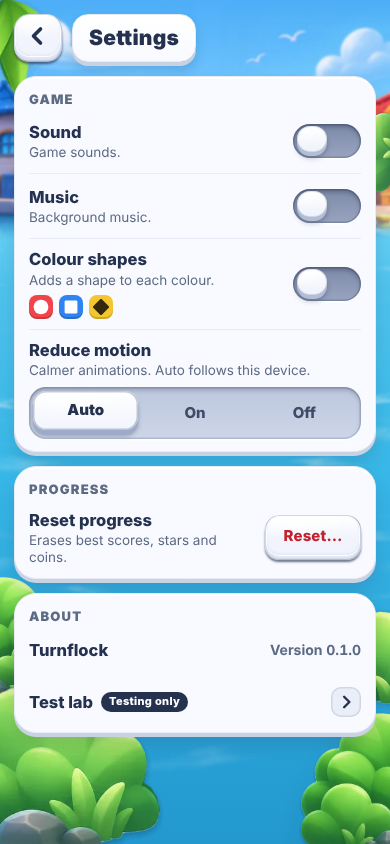
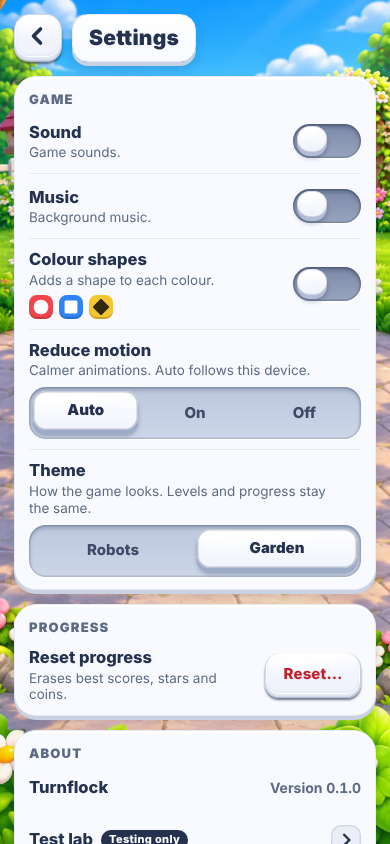
feat: the garden is the main theme, robot stays one tap away
Owner, 2026-11-24 (via the overall session). Every build opens a new
player in the garden; build:single:garden stays as a name for the same
game. Save version 9 keeps whether the player picked a theme: a picked
theme is kept, an unpicked one follows the default. Version 8 did not keep
that and robot was the default then, so every older save opens in the
garden (progress kept). Settings list Garden first. Browser test for the
switch and the old-save case rewritten for the new default.
Evidence: production/qa/evidence/garden-theme/main-*.

Design: design/themes.md

Claude-Session: https://claude.ai/code/session_01PBSmYtBD6kmydKTzDVzXTr

diff --git a/tests/integration/theme.spec.ts b/tests/integration/theme.spec.ts
@@ -1,5 +1,5 @@
-// The theme setting (design/themes.md): switching in the settings changes the page and the
-// board without a reload, is kept, and the garden build opens in the garden theme.
+// The theme setting (design/themes.md): the garden is the main theme; switching in the settings
+// changes the page and the board without a reload, and a picked theme is kept.
 import { expect, test, type Page } from '@playwright/test';
 import { existsSync } from 'node:fs';
 import { resolve } from 'node:path';
@@ -20,32 +20,43 @@ async function open(page: Page, url: string): Promise<string[]> {
 }
 const theme = (page: Page) => page.evaluate(() => window.turnflock.snapshot().theme);
 
-test('theme: robot by default; Garden in the settings switches page and board at once, and is kept @boot', async ({ page }) => {
+test('theme: a fresh start opens in the garden; Robots in the settings switches page and board at once, and is kept @boot', async ({ page }) => {
   const errors = await open(page, build);
-  expect(await theme(page)).toEqual({ setting: 'robot', page: 'robot' });
+  expect(await theme(page)).toEqual({ setting: 'garden', page: 'garden' });
+  expect(await page.evaluate(() => getComputedStyle(document.documentElement).getPropertyValue('--tf-theme-sky').trim())).not.toBe('');
   // Into level 1 and back, so a board is built before the switch.
   await page.click('#continue');
   await expect.poll(async () => (await page.evaluate(() => window.turnflock.snapshot().screen))).toBe('level');
   await page.click('#levelBack');
   await page.click('#toSettings');
   const row = page.locator('#settings [data-key="theme"]');
-  await expect(row.getByRole('radio', { name: 'Robots' })).toHaveAttribute('aria-checked', 'true');
-  await row.getByRole('radio', { name: 'Garden' }).click();
-  expect(await theme(page)).toEqual({ setting: 'garden', page: 'garden' });
-  expect(await page.evaluate(() => getComputedStyle(document.documentElement).getPropertyValue('--tf-theme-sky').trim())).not.toBe('');
-  expect(await page.evaluate(() => JSON.parse(localStorage.getItem('turnflock.save')!).settings.theme)).toBe('garden');
-  await page.reload();
-  await expect.poll(() => page.evaluate(() => typeof window.turnflock?.snapshot)).toBe('function');
-  expect(await theme(page)).toEqual({ setting: 'garden', page: 'garden' });
-  // Back to robots: the garden colours are gone again.
-  await page.click('#toSettings');
-  await page.locator('#settings [data-key="theme"]').getByRole('radio', { name: 'Robots' }).click();
+  await expect(row.getByRole('radio', { name: 'Garden' })).toHaveAttribute('aria-checked', 'true');
+  await row.getByRole('radio', { name: 'Robots' }).click();
   expect(await theme(page)).toEqual({ setting: 'robot', page: 'robot' });
   expect(await page.evaluate(() => getComputedStyle(document.documentElement).getPropertyValue('--tf-theme-sky').trim())).toBe('');
+  expect(await page.evaluate(() => JSON.parse(localStorage.getItem('turnflock.save')!).settings)).toMatchObject({ theme: 'robot', themeChosen: true });
+  // A picked robot theme survives a reload.
+  await page.reload();
+  await expect.poll(() => page.evaluate(() => typeof window.turnflock?.snapshot)).toBe('function');
+  expect(await theme(page)).toEqual({ setting: 'robot', page: 'robot' });
+  // Back to the garden.
+  await page.click('#toSettings');
+  await page.locator('#settings [data-key="theme"]').getByRole('radio', { name: 'Garden' }).click();
+  expect(await theme(page)).toEqual({ setting: 'garden', page: 'garden' });
   expect(errors).toEqual([]);
 });
 
-test('theme: the garden build opens a new player in the garden, and a level plays there', async ({ page }) => {
+test('theme: a save from before the garden became the main theme opens in the garden, progress kept', async ({ page }) => {
+  await page.addInitScript(() => {
+    if (!localStorage.getItem('turnflock.save')) localStorage.setItem('turnflock.save', JSON.stringify({ version: 8, best: { 'first-steps': 3 }, coins: 73, paid: {}, settings: { theme: 'robot' }, lab: {} }));
+  });
+  const errors = await open(page, build);
+  expect(await theme(page)).toEqual({ setting: 'garden', page: 'garden' });
+  expect(await page.evaluate(() => window.turnflock.snapshot().coins)).toBe(73);
+  expect(errors).toEqual([]);
+});
+
+test('theme: the garden build (build:single:garden) is the same game, and a level plays there', async ({ page }) => {
   test.skip(!existsSync(gardenFile), 'run npm run build:single:garden first');
   const errors = await open(page, pathToFileURL(gardenFile).href);
   expect(await theme(page)).toEqual({ setting: 'garden', page: 'garden' });

diff --git a/src/game/save.ts b/src/game/save.ts
@@ -9,7 +9,7 @@ import { isSoundSet } from '../sound/sets';
 import { DEFAULT_THEME, isThemeId, type ThemeId } from './theme';
 
 /** Current save format. Raise it and extend `migrate` when the shape changes. */
-export const SAVE_VERSION = 8;
+export const SAVE_VERSION = 9;
 /**
  * Which amounts the `paid` map is in. 1: base, spare moves and perfect bonus (until 2026-11-22). 2: the reward
  * follows the stars (design/economy.md). Kept apart from `SAVE_VERSION` because the save's shape does not change.
@@ -42,6 +42,8 @@ export interface SaveData {
     colourShapes: boolean;
     /** The look the game is played in (design/themes.md). Only the look: levels and progress are shared. */
     theme: ThemeId;
+    /** True once the player picked a theme in the settings; until then the theme follows the game's default. */
+    themeChosen: boolean;
   };
   lab: LabSettings;
   /** The test ledger: pretend purchases, rewards and spends, with running totals. */
@@ -57,7 +59,7 @@ export interface KeyValueStore {
 
 /** A fresh save. */
 export function defaultSave(): SaveData {
-  return { version: SAVE_VERSION, best: {}, coins: CONFIG.coins.start, paid: {}, economy: ECONOMY_VERSION, settings: { mute: false, music: true, reduceMotion: null, colourShapes: false, theme: DEFAULT_THEME }, lab: { ...DEFAULT_LAB }, ledger: emptyLedger() };
+  return { version: SAVE_VERSION, best: {}, coins: CONFIG.coins.start, paid: {}, economy: ECONOMY_VERSION, settings: { mute: false, music: true, reduceMotion: null, colourShapes: false, theme: DEFAULT_THEME, themeChosen: false }, lab: { ...DEFAULT_LAB }, ledger: emptyLedger() };
 }
 
 const isRecord = (v: unknown): v is Record<string, unknown> => typeof v === 'object' && v !== null && !Array.isArray(v);
@@ -84,8 +86,10 @@ export function migrate(raw: unknown, levelIds: readonly string[]): SaveData {
   // Version 4 had no colour shapes: everything is kept and the shapes start switched off.
   // Version 5 had no test shop and no ledger: everything is kept, the ledger starts empty and the shop switches take their defaults.
   // Version 6 had no music: everything is kept and the music starts switched on, like for a new player.
-  // Version 7 had no theme: everything is kept and the theme is the build's default, like for a new player.
-  const withCoins = raw.version === SAVE_VERSION || raw.version === 7 || raw.version === 6 || raw.version === 5 || raw.version === 4 || raw.version === 3;
+  // Version 7 had no theme: everything is kept and the theme is the default, like for a new player.
+  // Version 8 kept a theme but not whether the player picked it: robot was the default then, so a stored
+  // robot cannot be told from a chosen one. Every version 8 save goes to the default (the garden).
+  const withCoins = raw.version === SAVE_VERSION || raw.version === 8 || raw.version === 7 || raw.version === 6 || raw.version === 5 || raw.version === 4 || raw.version === 3;
   if (!withCoins && raw.version !== 2) return save;
   if (isRecord(raw.best)) {
     for (const [id, moves] of Object.entries(raw.best)) {
@@ -107,8 +111,12 @@ export function migrate(raw: unknown, levelIds: readonly string[]): SaveData {
     save.settings.music = raw.settings.music !== false;
     save.settings.reduceMotion = typeof raw.settings.reduceMotion === 'boolean' ? raw.settings.reduceMotion : null;
     save.settings.colourShapes = raw.settings.colourShapes === true;
-    // A theme that no longer exists (or damaged data) gives the build's default.
-    if (isThemeId(raw.settings.theme)) save.settings.theme = raw.settings.theme;
+    // Only a theme the player picked is kept; otherwise (not picked, an older save, a theme that no
+    // longer exists, damaged data) the theme is the default.
+    if (raw.version === SAVE_VERSION && raw.settings.themeChosen === true && isThemeId(raw.settings.theme)) {
+      save.settings.theme = raw.settings.theme;
+      save.settings.themeChosen = true;
+    }
   }
   if (isRecord(raw.lab)) {
     const lab = raw.lab;

diff --git a/tests/unit/theme.test.ts b/tests/unit/theme.test.ts
@@ -24,12 +24,12 @@ const partial: ThemeSources = {
 };
 
 describe('theme ids', () => {
-  it('knows robot and garden, and the tests run the robot build', () => {
-    expect(THEME_IDS).toEqual(['robot', 'garden']);
+  it('knows robot and garden, and the garden is the main theme', () => {
+    expect(THEME_IDS).toEqual(['garden', 'robot']);
     expect(isThemeId('garden')).toBe(true);
     expect(isThemeId('space')).toBe(false);
     expect(isThemeId(undefined)).toBe(false);
-    expect(DEFAULT_THEME).toBe('robot');
+    expect(DEFAULT_THEME).toBe('garden');
   });
 });
 
@@ -146,32 +146,43 @@ describe('effects and hint during play', () => {
 });
 
 describe('theme in the save', () => {
-  it('a fresh save starts in the build default', () => {
-    expect(SAVE_VERSION).toBe(8);
-    expect(defaultSave().settings.theme).toBe(DEFAULT_THEME);
+  it('a fresh save starts in the garden, not picked by the player', () => {
+    expect(SAVE_VERSION).toBe(9);
+    expect(defaultSave().settings.theme).toBe('garden');
+    expect(defaultSave().settings.themeChosen).toBe(false);
   });
 
-  it('a version 7 save keeps everything and gets the default theme', () => {
+  it('a version 7 save keeps everything and gets the garden', () => {
     const save = migrate({ version: 7, best: { [ids[0]]: 7 }, coins: 73, paid: { [ids[0]]: 26 }, economy: 2, settings: { mute: true, music: false, reduceMotion: true, colourShapes: true }, lab: { unlockAll: true } }, ids);
     expect(save.version).toBe(SAVE_VERSION);
     expect(save.best).toEqual({ [ids[0]]: 7 });
     expect(save.coins).toBe(73);
     expect(save.paid).toEqual({ [ids[0]]: 26 });
-    expect(save.settings).toEqual({ mute: true, music: false, reduceMotion: true, colourShapes: true, theme: 'robot' });
+    expect(save.settings).toEqual({ mute: true, music: false, reduceMotion: true, colourShapes: true, theme: 'garden', themeChosen: false });
     expect(save.lab.unlockAll).toBe(true);
   });
 
-  it('a chosen theme is kept; an unknown or damaged one gives the default', () => {
+  it('a version 8 save goes to the garden, robot included: whether robot was picked was not kept', () => {
+    const robot = migrate({ version: 8, best: { [ids[0]]: 7 }, coins: 73, settings: { theme: 'robot', mute: true }, lab: {} }, ids);
+    expect(robot.settings).toMatchObject({ theme: 'garden', themeChosen: false, mute: true });
+    expect(robot.best).toEqual({ [ids[0]]: 7 });
+    expect(robot.coins).toBe(73);
     expect(migrate({ version: 8, settings: { theme: 'garden' } }, ids).settings.theme).toBe('garden');
-    expect(migrate({ version: 8, settings: { theme: 'space' } }, ids).settings.theme).toBe('robot');
-    expect(migrate({ version: 8, settings: { theme: 3 } }, ids).settings.theme).toBe('robot');
   });
 
-  it('survives a write and a read', () => {
+  it('from version 9 a picked theme is kept, robot too; an unpicked one follows the default', () => {
+    expect(migrate({ version: 9, settings: { theme: 'robot', themeChosen: true } }, ids).settings).toMatchObject({ theme: 'robot', themeChosen: true });
+    expect(migrate({ version: 9, settings: { theme: 'robot', themeChosen: false } }, ids).settings).toMatchObject({ theme: 'garden', themeChosen: false });
+    expect(migrate({ version: 9, settings: { theme: 'space', themeChosen: true } }, ids).settings).toMatchObject({ theme: 'garden', themeChosen: false });
+    expect(migrate({ version: 9, settings: { theme: 3, themeChosen: true } }, ids).settings.theme).toBe('garden');
+  });
+
+  it('a picked robot theme survives a write and a read', () => {
     const store = memory();
     const save = defaultSave();
-    save.settings.theme = 'garden';
+    save.settings.theme = 'robot';
+    save.settings.themeChosen = true;
     writeSave(store, save);
-    expect(loadSave(store, ids).settings.theme).toBe('garden');
+    expect(loadSave(store, ids).settings).toMatchObject({ theme: 'robot', themeChosen: true });
   });
 });

diff --git a/tests/unit/meta.test.ts b/tests/unit/meta.test.ts
@@ -152,7 +152,7 @@ describe('save', () => {
     expect(save.best).toEqual({ [ids[0]]: 7 });
     expect(save.coins).toBe(73);
     expect(save.paid).toEqual({ [ids[0]]: 26 });
-    expect(save.settings).toEqual({ mute: true, music: true, reduceMotion: true, colourShapes: false, theme: 'robot' });
+    expect(save.settings).toEqual({ mute: true, music: true, reduceMotion: true, colourShapes: false, theme: 'garden', themeChosen: false });
     expect(save.lab.moveSlack).toBe(3);
     expect(save.lab.unlockAll).toBe(true);
   });
@@ -176,7 +176,7 @@ describe('save', () => {
     const save = migrate({ version: 4, best: { [ids[0]]: 7 }, coins: 73, settings: { mute: true, reduceMotion: false, vibration: false }, lab: { unlockAll: true } }, ids);
     expect(save.best).toEqual({ [ids[0]]: 7 });
     expect(save.coins).toBe(73);
-    expect(save.settings).toEqual({ mute: true, music: true, reduceMotion: false, colourShapes: false, theme: 'robot' });
+    expect(save.settings).toEqual({ mute: true, music: true, reduceMotion: false, colourShapes: false, theme: 'garden', themeChosen: false });
     expect(save.lab.unlockAll).toBe(true);
   });
 
@@ -186,7 +186,7 @@ describe('save', () => {
     expect(save.best).toEqual({ [ids[0]]: 7 });
     expect(save.coins).toBe(73);
     expect(save.paid).toEqual({ [ids[0]]: 26 });
-    expect(save.settings).toEqual({ mute: true, music: true, reduceMotion: true, colourShapes: false, theme: 'robot' });
+    expect(save.settings).toEqual({ mute: true, music: true, reduceMotion: true, colourShapes: false, theme: 'garden', themeChosen: false });
     expect(save.lab.moveSlack).toBe(3);
     expect(defaultSave().settings.colourShapes).toBe(false);
   });

diff --git a/vite.config.ts b/vite.config.ts
@@ -1,8 +1,8 @@
 // npm run build        -> dist/: the folder build, for shipping (itch.io, a website)
 // npm run build:single -> dist-single/index.html: one file with everything
 //                         inlined, which every check opens from disk
-// npm run build:single:garden -> dist-single-garden/index.html: the same game,
-//                         opening in the garden theme (design/themes.md)
+// npm run build:single:garden -> dist-single-garden/index.html: the same game (kept as a
+//                         name the published copy is built with; both open in the garden)
 // Vitest reads the test block; Playwright has its own config.
 import { defineConfig } from 'vitest/config';
 import { viteSingleFile } from 'vite-plugin-singlefile';
@@ -13,8 +13,9 @@ const SINGLE_FILE_MODES = ['single', 'single-garden', 'parts', 'sounds'];
 const OUT_DIRS: Record<string, string> = { single: 'dist-single', 'single-garden': 'dist-single-garden', parts: 'dist-parts', sounds: 'dist-sounds' };
 
 export default defineConfig(({ mode }) => ({
-  // The theme a fresh save starts in (src/game/theme.ts). Only the garden build changes it.
-  define: { __TF_DEFAULT_THEME__: JSON.stringify(mode === 'single-garden' ? 'garden' : 'robot') },
+  // The theme a fresh save starts in (src/game/theme.ts): the garden, the main theme since the
+  // owner's decision of 2026-11-24; the robot theme stays one tap away in the settings.
+  define: { __TF_DEFAULT_THEME__: JSON.stringify('garden') },
   // Relative paths, so the build works from any folder, itch.io included.
   base: './',
   // Assets are imported in the code (new URL('../assets/x.png', import.meta.url)),

diff --git a/src/game/theme.ts b/src/game/theme.ts
@@ -5,7 +5,7 @@
  */
 
 /** Every theme, in the order the settings screen lists them. */
-export const THEME_IDS = ['robot', 'garden'] as const;
+export const THEME_IDS = ['garden', 'robot'] as const;
 /** One theme: `robot` (the harbour and its flock robots) or `garden` (a sunny garden with flock chicks). */
 export type ThemeId = (typeof THEME_IDS)[number];
 
@@ -18,8 +18,8 @@ export function isThemeId(value: unknown): value is ThemeId {
 }
 
 /**
- * The theme a new player starts in. The build decides it: `npm run build:single`
- * makes `robot`, `npm run build:single:garden` the same game with `garden`
- * (vite.config.ts defines `__TF_DEFAULT_THEME__`). Unknown values give `robot`.
+ * The theme a new player starts in, and every player who never picked one: the garden, the main
+ * theme (owner, 2026-11-24). vite.config.ts defines `__TF_DEFAULT_THEME__`; without it (tools run
+ * outside Vite) or with an unknown value it is the garden too.
  */
-export const DEFAULT_THEME: ThemeId = isThemeId(typeof __TF_DEFAULT_THEME__ === 'string' ? __TF_DEFAULT_THEME__ : undefined) ? (__TF_DEFAULT_THEME__ as ThemeId) : 'robot';
+export const DEFAULT_THEME: ThemeId = isThemeId(typeof __TF_DEFAULT_THEME__ === 'string' ? __TF_DEFAULT_THEME__ : undefined) ? (__TF_DEFAULT_THEME__ as ThemeId) : 'garden';

diff --git a/src/main.ts b/src/main.ts
@@ -493,7 +493,11 @@ class Game {
       setMusic: (on) => change(() => (this.save.settings.music = on)),
       setReduceMotion: (value) => change(() => (this.save.settings.reduceMotion = value)),
       theme: this.save.settings.theme,
-      setTheme: (theme) => change(() => (this.save.settings.theme = theme)),
+      setTheme: (theme) =>
+        change(() => {
+          this.save.settings.theme = theme;
+          this.save.settings.themeChosen = true;
+        }),
       colourShapes: this.save.settings.colourShapes,
       setColourShapes: (on) => change(() => (this.save.settings.colourShapes = on)),
       resetProgress: () =>

diff --git a/tests/unit/music.test.ts b/tests/unit/music.test.ts
@@ -295,7 +295,7 @@ describe('music setting', () => {
     expect(save.version).toBe(SAVE_VERSION);
     expect(save.best).toEqual({ a: 7 });
     expect(save.coins).toBe(73);
-    expect(save.settings).toEqual({ mute: true, music: true, reduceMotion: null, colourShapes: true, theme: 'robot' });
+    expect(save.settings).toEqual({ mute: true, music: true, reduceMotion: null, colourShapes: true, theme: 'garden', themeChosen: false });
     expect(save.lab.unlockAll).toBe(true);
     expect(save.lab.music).toBe(DEFAULT_LAB.music);
   });

diff --git a/design/themes.md b/design/themes.md
@@ -5,24 +5,28 @@ looks**: levels, rules, moves, coins and progress are the same in every theme.
 
 | Theme id | Name in the settings | What it is |
 |---|---|---|
-| `robot` | Robots | The harbour and its flock robots. The base every other theme falls back to. Unchanged by the theme work. |
-| `garden` | Garden | A sunny garden with flock chicks. Reference pictures: `design/reference/turnflock/garden/` (see its README). |
+| `garden` | Garden | **The main theme** (owner, 2026-11-24): a sunny garden with flock chicks. Reference pictures: `design/reference/turnflock/garden/` (see its README). |
+| `robot` | Robots | The harbour and its flock robots, always one tap away. The base every theme part falls back to. Unchanged by the theme work. |
 
 ## How the player switches
 
-Settings → Game → **Theme** (Robots / Garden). The choice is saved
-(`settings.theme` in the save, format version 8) and takes effect at once: the page
-gets the theme's colours and the board is rebuilt, without a reload.
+Settings → Game → **Theme** (Garden / Robots). The choice is saved and takes effect at once:
+the page gets the theme's colours and the board is rebuilt, without a reload.
 
-A fresh save starts in the build's default theme:
+- A new player starts in the garden.
+- The save (format version 9) keeps `settings.theme` and `settings.themeChosen`. Only a theme
+  the player picked is kept; a player who never picked one follows the default, so a later
+  change of the main theme reaches them too.
+- Saves from before version 9 all open in the garden, robot included: version 8 stored a theme
+  but not whether it was picked, and robot was the default then (owner's rule: when the
+  difference cannot be told, the garden for everyone). Progress, coins and settings are kept.
 
 | Command | File | Starts in |
 |---|---|---|
-| `npm run build:single` | `dist-single/index.html` | `robot` |
-| `npm run build:single:garden` | `dist-single-garden/index.html` | `garden` |
+| `npm run build:single` | `dist-single/index.html` | `garden` |
+| `npm run build:single:garden` | `dist-single-garden/index.html` | `garden` (the same game; the name is kept for the published copy) |
 
-Both are the same code; only the default differs (`__TF_DEFAULT_THEME__`, set in
-`vite.config.ts`, read in `src/game/theme.ts`). A player of either can switch.
+The default is `__TF_DEFAULT_THEME__`, set in `vite.config.ts` and read in `src/game/theme.ts`.
 
 ## The register
 
